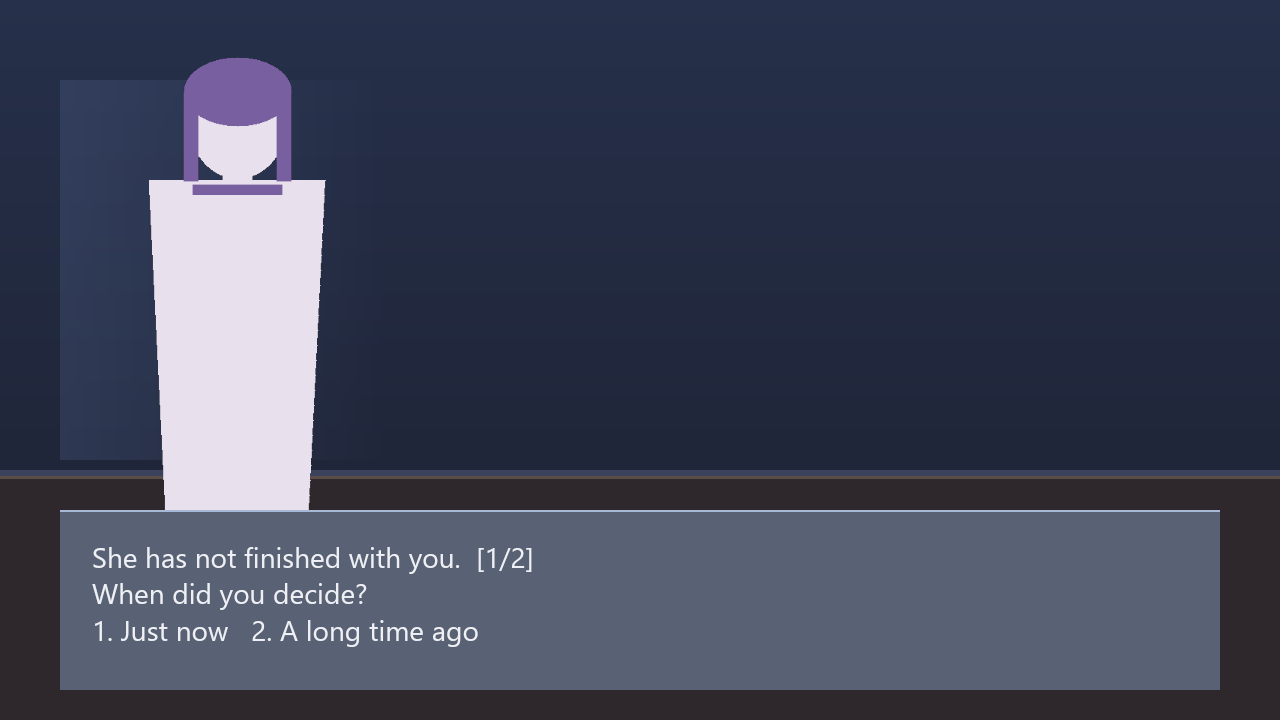
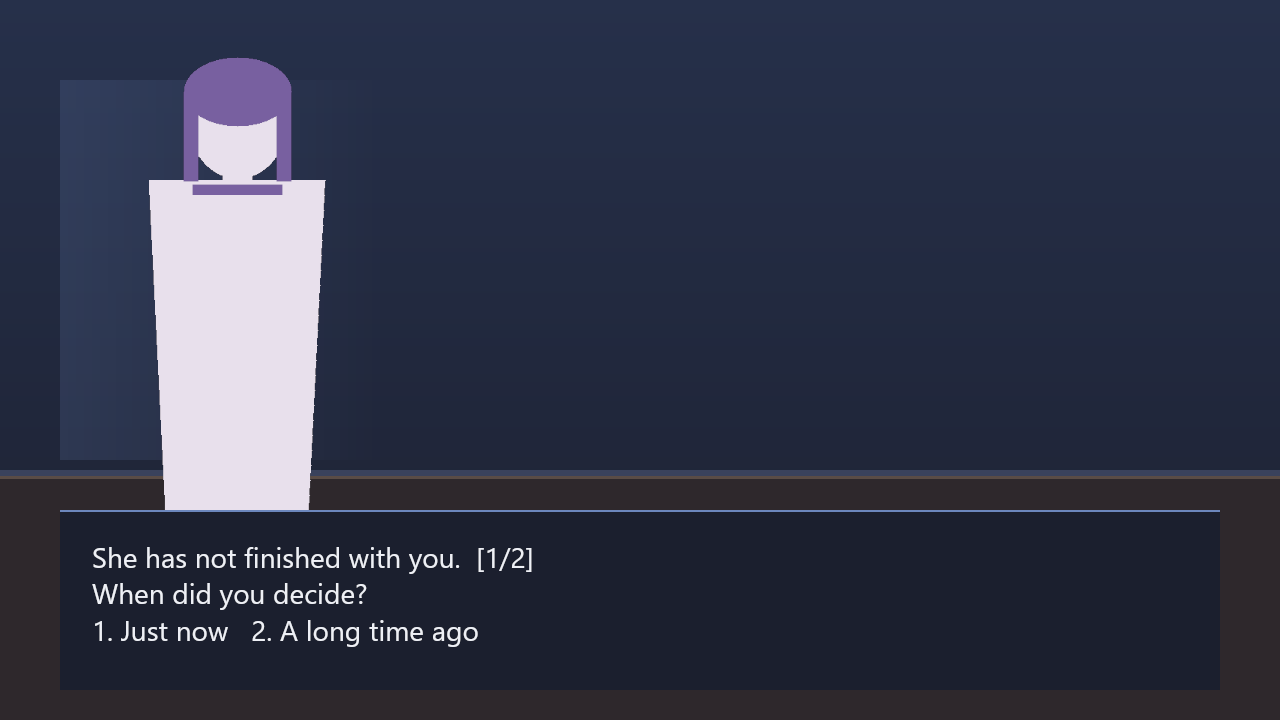
docs: record the colour invariant and close the editor's listed gaps
ADR 0008's known gaps were written when the editor could not open a file. Three of the
four are now closed, and the ADR says so under a heading that names them as additions
rather than quietly editing the list. The one that remains — no recent-files list — is
still a gap.

The native-texture failure is kept, with the diagnostic that settled it: a magenta clear
colour that failed to appear proved the displayed texture was not the drawn one. Deleting
that note would invite the next person to spend the same afternoon on it.

architecture.md gains a seventh invariant: colours are authored in sRGB and converted to
linear exactly once. The render target encodes whatever it is given, so passing sRGB
means encoding twice and every dark scene looks washed out. It belongs in the invariant
list because it is the kind of bug nobody files — the picture is merely wrong, and there
is nothing to point at.

README documents the editor as a normal desktop application rather than a demo: the
shortcuts, the save guard, and the outcome table with a second screenshot, because the
outcome table is the part that makes a gameplay system reusable.

All screenshots regenerated after the colour fix. The dialogue box is genuinely dark now,
which is what the earlier ones only claimed.

Changed region(s): [[0.0312, 0.7028, 0.9688, 0.9778]]

diff --git a/docs/adr/0008-editor-architecture.md b/docs/adr/0008-editor-architecture.md
@@ -121,10 +121,35 @@ intermediate, and this ADR should be superseded.
 
 ## Known gaps
 
-- No file picker, no save-as dialog.
-- Gameplay outcome mappings are edited through the CLI only.
-- The preview re-renders on every document change but not on window resize (the logical
-  resolution is fixed, so this is only visible as letterboxing differences).
-- Native-texture display was attempted and abandoned: the texture the engine drew into
-  and the one egui sampled were not the same object. The readback path is slower per
-  edit and reliable. Recorded so nobody re-attempts it without new information.
+- **No recent-files list.** Reopening means going through the dialog again.
+- **The preview does not re-render on window resize.** The logical resolution is fixed,
+  so this only shows up as letterboxing differences.
+- **No colour grading or theme editor.** Layout constants are compiled in; a project that
+  wants a different dialogue box position edits `apps/rustory-editor/src/preview.rs` and
+  `apps/rustory/src/scene.rs`.
+- **Native-texture display was attempted and abandoned.** The texture the engine drew
+  into and the one egui sampled were not the same object, so the panel showed a stale
+  blank frame; a magenta clear colour proved it, because a colour that cannot survive any
+  conversion failing to appear meant the displayed texture was not the drawn one. The
+  readback path is slower per edit and reliable. Recorded so nobody re-attempts it without
+  new information.
+- **A stale `eframe` build cache produced a `windows_sys` version conflict** after `rfd`
+  was added. `cargo clean -p eframe -p egui -p rfd` resolved it; nothing was wrong with the
+  dependency graph itself. Worth knowing because the error message (`found possibly newer
+  version of crate windows_sys`) points at the graph rather than the cache.
+
+## What was added after the first version
+
+Both gaps this ADR originally listed are closed:
+
+- **File dialogs.** New / Open / Save / Save-as, via `rfd`, isolated in `dialogs.rs` so the
+  blocking behaviour is confined and the dependency is replaceable in one file. A new
+  story starts untitled and `save` refuses to invent a path — writing to a guess is how
+  work ends up somewhere the author never looks.
+- **Gameplay outcome mappings.** `SetOutcome` and `DeleteOutcome` joined the operation
+  layer, which means the GUI gained the ability *because the CLI did*: adding the
+  operations first is what kept the two front-ends from diverging.
+
+A close guard was added at the same time. Unsaved work prompts before the window closes
+and before Open or New replaces the document, because losing a scene to a misclick is the
+one failure an editor must not have.

diff --git a/README.md b/README.md
@@ -1,4 +1,4 @@
-# RuStory
+# RuStory
 
 **A Rust-native visual novel engine with composable gameplay.**
 
@@ -56,7 +56,7 @@ and the contract gets fixed — not the core.
 - Gameplay handover, with **two** systems: a timed choice and a multi-round quiz
 - **Save and load**, including gameplay state mid-system (`F5` / `F9` in a window)
 - `rustory play` in a window, or `rustory shot` to render a frame headlessly
-- 156 tests, including offscreen GPU renders and 32 covering the editor operations
+- 178 tests, including offscreen GPU renders, colour round-trips, and 39 covering the editor operations
 
 Not yet: audio, rollback history, WASM plugins, an authoring tool. Those have ADRs
 describing the plan, not code pretending to be one.
@@ -71,11 +71,22 @@ only one program's worth of rules.
 ![Editor](shots/editor.png)
 
 ```console
-$ cargo run -p rustory-editor -- stories/demo.ron   # GUI
-$ cargo run -p rustory -- ops --json                # what an agent can do
+$ cargo run -p rustory-editor                        # new story
+$ cargo run -p rustory-editor -- stories/demo.ron    # open an existing one
+$ cargo run -p rustory -- ops --json                 # what an agent can do
 $ cargo run -p rustory -- inspect stories/demo.ron --json
 $ cargo run -p rustory -- edit stories/demo.ron --op '{"op":"CreateNode","id":"epilogue"}'
 ```
+
+The editor is a normal desktop application: **New / Open / Save / Save as** with
+`Ctrl+N`, `Ctrl+O`, `Ctrl+S`, `Ctrl+Shift+S`, undo and redo on `Ctrl+Z` / `Ctrl+Y`, and a
+prompt before anything throws away unsaved work.
+
+Nodes, beats, exits, choices and gameplay outcome mappings are all editable as forms.
+The outcome table is what makes a gameplay system reusable: the same `timer.timed_choice`
+can mean different things in different scenes because *where each key leads is data*.
+
+![Outcome mappings](shots/editor-outcomes.png)
 
 Every edit is **all or nothing**: `Editor::apply` either succeeds and leaves a valid
 document, or fails and leaves it byte-for-byte as it was. That is what makes the CLI
@@ -156,7 +167,7 @@ Requires Rust 1.85+ (edition 2024) and, on Windows, the MSVC toolchain.
 ```console
 cargo check --workspace     # fastest feedback
 cargo build                 # first run pulls the wgpu tree; minutes
-cargo test --workspace      # 156 tests; render tests skip without a GPU
+cargo test --workspace      # 178 tests; render tests skip without a GPU
 cargo run -p rustory -- probe
 ```
 

diff --git a/docs/architecture.md b/docs/architecture.md
@@ -130,6 +130,12 @@ before changing one.
 6. **Typewriter text advances by grapheme cluster, never by `char`.**
    `char` splits emoji and combining marks into pieces.
 
+7. **Colours are authored in sRGB and converted to linear exactly once.**
+   The render target is `Bgra8UnormSrgb`, so wgpu encodes whatever it is given. Passing
+   sRGB values means encoding twice: `12` becomes `61` and every dark scene looks
+   washed out. The conversion belongs at the boundary where colours become GPU data,
+   and nowhere else — glyphon already does its own for text.
+
 ---
 
 ## 5. Module map
